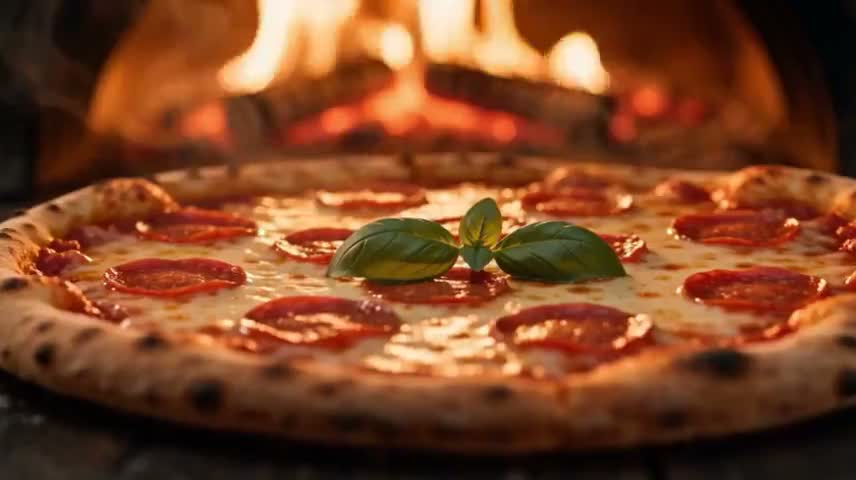
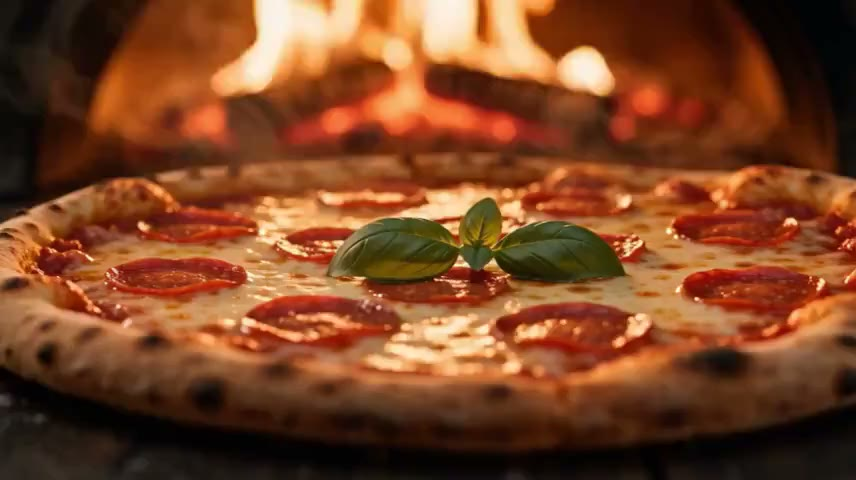
添加 1 张新视频首帧 poster

diff --git a/watch_video_folder.py b/watch_video_folder.py
@@ -1,0 +1,86 @@
+# watch_video_folder.py VS Code后台常驻监听
+import time
+import os
+import subprocess
+import json
+from watchdog.observers import Observer
+from watchdog.events import FileSystemEventHandler
+import git
+
+repo_path = r"D:\ai-videos"
+poster_dir = os.path.join(repo_path, "posters")
+meta_file = os.path.join(repo_path, "video_meta.json")
+os.makedirs(poster_dir, exist_ok=True)
+
+if os.path.exists(meta_file):
+    with open(meta_file, "r", encoding="utf-8") as f:
+        meta = json.load(f)
+else:
+    meta = {}
+
+class NewVideoHandler(FileSystemEventHandler):
+    def on_created(self, event):
+        if event.is_directory:
+            return
+        file_path = event.src_path
+        if file_path.endswith(".mp4"):
+            base_name = os.path.basename(file_path).replace(".mp4", "")
+            mp4_full_path = file_path
+            txt_full_path = os.path.join(repo_path, f"{base_name}.txt")
+            poster_path = os.path.join(poster_dir, f"{base_name}.jpg")
+
+            print(f"\n🔍 检测新增视频：{base_name}.mp4")
+            print(f"⏳ 等待配套元文件 {base_name}.txt ...")
+            
+            wait_count = 0
+            while not os.path.exists(txt_full_path) and wait_count < 60:
+                time.sleep(1)
+                wait_count += 1
+            if not os.path.exists(txt_full_path):
+                print(f"❌ 超时：未找到 {base_name}.txt，跳过该视频")
+                return
+            
+            with open(txt_full_path, "r", encoding="utf-8") as f:
+                txt_lines = f.read().splitlines()
+            
+            title = txt_lines[0].strip() if len(txt_lines)>=1 else "未命名视频"
+            category = txt_lines[1].strip() if len(txt_lines)>=2 else "未分类"
+            prompt = "\n".join(txt_lines[2:]).strip() if len(txt_lines)>=3 else ""
+
+            print(f"✅ 读取元信息成功\n标题:{title}\n分类:{category}")
+            print("🎬 FFmpeg提取视频首帧...")
+            subprocess.run([
+                "ffmpeg", "-ss", "00:00:00.1", "-i", mp4_full_path,
+                "-vframes", "1", "-q:v", "6", poster_path, "-y"
+            ], capture_output=True)
+
+            meta[base_name] = {
+                "title": title,
+                "category": category,
+                "prompt": prompt,
+                "poster": f"posters/{base_name}.jpg",
+                "video": f"{base_name}.mp4"
+            }
+            with open(meta_file, "w", encoding="utf-8") as f:
+                json.dump(meta, f, ensure_ascii=False, indent=2)
+
+            print("📤 Git提交：首帧图 + video_meta.json")
+            repo = git.Repo(repo_path)
+            repo.index.add([poster_path, meta_file])
+            repo.index.commit(f"auto add poster & meta {base_name}")
+            repo.remotes.origin.push("main")
+            print(f"✅ {base_name} 全部处理完成！")
+
+if __name__ == "__main__":
+    event_handler = NewVideoHandler()
+    observer = Observer()
+    observer.schedule(event_handler, repo_path, recursive=False)
+    observer.start()
+    print(f"🔍 后台监控启动，监控目录：{repo_path}")
+    print("💡 使用说明：放入 sxxxxxx.mp4 和 sxxxxxx.txt 一对文件")
+    try:
+        while True:
+            time.sleep(1)
+    except KeyboardInterrupt:
+        observer.stop()
+    observer.join()

diff --git a/agent_download_compress.py b/agent_download_compress.py
@@ -1,0 +1,52 @@
+# agent_download_compress.py
+import yt_dlp
+import subprocess
+import os
+import git
+
+repo_path = r"D:\ai-videos"
+output_dir = repo_path
+os.makedirs(output_dir, exist_ok=True)
+
+def download_and_compress(video_url, output_name):
+    # 1.下载视频
+    ydl_opts = {
+        'outtmpl': os.path.join(output_dir, f"{output_name}.tmp"),
+    }
+    with yt_dlp.YoutubeDL(ydl_opts) as ydl:
+        ydl.download([video_url])
+
+    tmp_file = os.path.join(output_dir, f"{output_name}.tmp")
+    out_file = os.path.join(output_dir, f"{output_name}.mp4")
+    txt_file = os.path.join(output_dir, f"{output_name}.txt")
+
+    # 2.FFmpeg压缩转mp4
+    cmd = [
+        "ffmpeg", "-i", tmp_file,
+        "-crf", "28", "-preset", "fast",
+        "-c:a", "aac", "-b:a", "128k",
+        "-y", out_file
+    ]
+    subprocess.run(cmd)
+    os.remove(tmp_file)
+
+    # 自动生成txt元信息模板
+    template_content = """这里填写视频标题
+这里填写视频分类
+这里填写完整AI提示词，支持多行
+"""
+    with open(txt_file, "w", encoding="utf-8") as f:
+        f.write(template_content)
+    print(f"📄 已自动生成元信息模板文件：{output_name}.txt，请打开填写内容！")
+
+    # git推送mp4
+    repo = git.Repo(repo_path)
+    repo.index.add([out_file])
+    repo.index.commit(f"add video {output_name}.mp4")
+    repo.remotes.origin.push("main")
+    print(f"✅ {output_name}.mp4 已上传到 ai-videos")
+
+if __name__ == "__main__":
+    url = input("输入视频链接：")
+    name = input("视频编号（例如 s000035）：")
+    download_and_compress(url, name)
